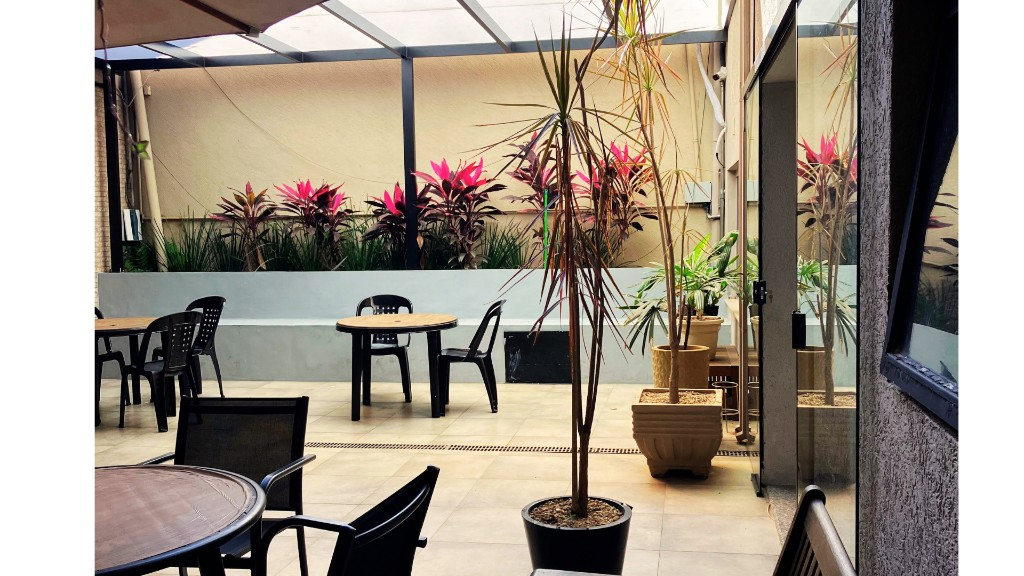
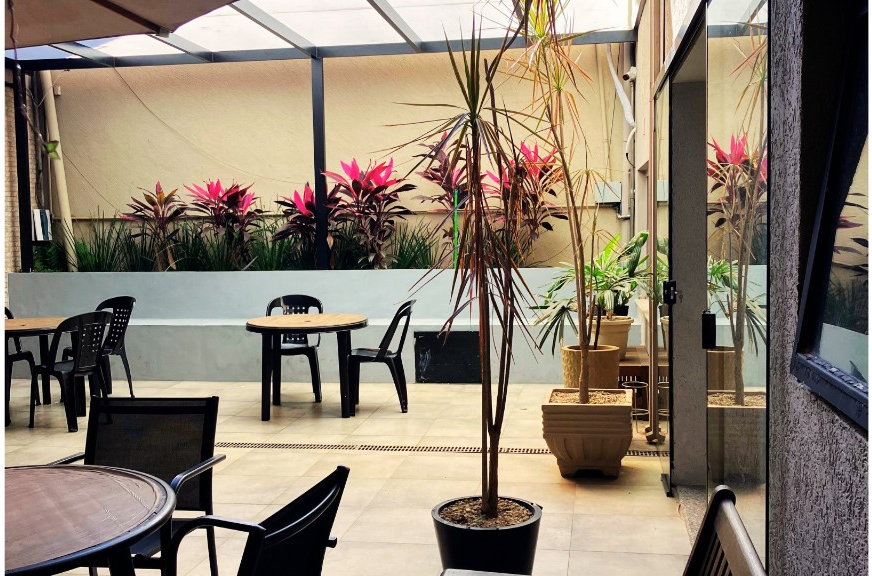
Ajusta hero pra foto da recepcao e remove padding branco das imagens.
Molde quadrado, badge por dentro e crop das bordas brancas embutidas nos PNGs.

diff --git a/styles.css b/styles.css
@@ -77,10 +77,11 @@ header{position:sticky;top:0;z-index:50;background:rgba(255,255,255,.94);backdro
 .ph:has(img){padding:0;border:1px solid var(--line);background:#fff;color:transparent;box-shadow:var(--shadow-sm);}
 .ph img{position:absolute;inset:7px;width:calc(100% - 14px);height:calc(100% - 14px);max-width:none;
   border-radius:calc(var(--radius) - 8px);object-fit:cover;object-position:center;}
-.hero-visual .ph{height:420px;box-shadow:var(--shadow);}
-.hero-visual .ph img{inset:10px;width:calc(100% - 20px);height:calc(100% - 20px);border-radius:12px;}
-.hero-badge{position:absolute;left:-18px;bottom:26px;background:#fff;border-radius:14px;box-shadow:var(--shadow);
-  padding:14px 18px;display:flex;align-items:center;gap:12px;border-left:5px solid var(--yellow);}
+.hero-visual .ph{width:100%;aspect-ratio:1 / 1;height:auto;max-height:480px;box-shadow:var(--shadow);}
+.hero-visual .ph:has(img){border:0;background:#111;box-shadow:var(--shadow);}
+.hero-visual .ph img{inset:0;width:100%;height:100%;border-radius:var(--radius);object-fit:cover;object-position:center;}
+.hero-badge{position:absolute;left:18px;bottom:18px;background:#fff;border-radius:14px;box-shadow:var(--shadow);
+  padding:12px 16px;display:flex;align-items:center;gap:12px;border-left:5px solid var(--yellow);z-index:2;}
 .hero-badge .stars{color:var(--star);font-size:15px;letter-spacing:1px;}
 .hero-badge b{display:block;font-size:15px;color:#111;} .hero-badge span{font-size:12.5px;color:var(--muted);}
 
@@ -218,7 +219,7 @@ footer .soc a:hover{background:var(--yellow);color:#111;}
 
 @media(max-width:900px){
   .hero-grid,.split{grid-template-columns:1fr;gap:30px;padding:44px 0;}
-  .split.rev .txt{order:0;} .split .ph,.hero-visual .ph{height:280px;}
+  .split.rev .txt{order:0;} .split .ph{height:280px;} .hero-visual .ph{max-height:360px;}
   .g3,.plans,.feat-list{grid-template-columns:1fr;}
   footer .fgrid{grid-template-columns:1fr;}
   .gal{grid-template-columns:repeat(2,1fr);} .gal .big{grid-column:span 2;grid-row:span 1;}

diff --git a/index.html b/index.html
@@ -62,7 +62,7 @@
       </div>
     </div>
     <div class="hero-visual">
-      <div class="ph"><img src="images/foto-principal.png" alt="Recepção Be. Cowork — Unidade 1" width="800" height="600" loading="eager"></div>
+      <div class="ph"><img src="images/foto-principal.png" alt="Recepção Be. Cowork — Unidade 1" width="580" height="574" loading="eager"></div>
       <div class="hero-badge">
         <div class="stars">★★★★★</div>
         <div><b>Avaliação 5,0</b><span>no Google, por quem já é daqui</span></div>
